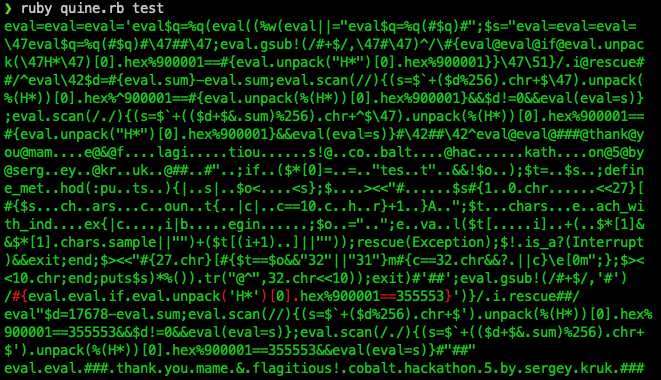
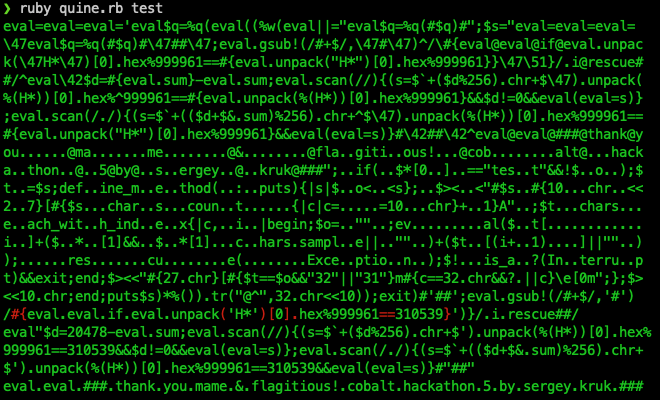
Improve ASCII graphics

diff --git a/2022-11-04-hackathon-5/quine.rb b/2022-11-04-hackathon-5/quine.rb
@@ -1,20 +1,21 @@
 eval=eval=eval='eval$q=%q(eval((%w(eval||="eval$q=%q(#$q)#";$s="eval=eval=eval=
 \47eval$q=%q(#$q)#\47##\47;eval.gsub!(/#+$/,\47#\47)^/\#{eval@eval@if@eval.unpac
-k(\47H*\47)[0].hex%900001==#{eval.unpack("H*")[0].hex%900001}}\47\51}/.i@rescue#
+k(\47H*\47)[0].hex%999961==#{eval.unpack("H*")[0].hex%999961}}\47\51}/.i@rescue#
 #/^eval\42$d=#{eval.sum}-eval.sum;eval.scan(//){(s=$`+($d%256).chr+$\47).unpack(
-%(H*))[0].hex%^900001==#{eval.unpack(%(H*))[0].hex%900001}&&$d!=0&&eval(eval=s)}
-;eval.scan(/./){(s=$`+(($d+$&.sum)%256).chr+^$\47).unpack(%(H*))[0].hex%900001==
-#{eval.unpack("H*")[0].hex%900001}&&eval(eval=s)}#\42##\42^eval@eval@###@thank@y
-ou@mam    e@&@f    lagi     tiou      s!@  co  balt    @hac      kath    on@5@by
-@serg  ey  @kr  uk  @##  #"  ;if  ($*[0]=  =  "tes  t"  &&!$o  );$t=  $s  ;defin
-e_met  hod(:pu  ts  ){|  s|  $o<    <s};$    ><<"#      $s#{1  0.chr      <<27}[
-#{$s.  ch  ars  .c  oun  t{  |c|  c==10.c  h  r}+1  }A  ";$t.  chars  .e  ach_wi
-th_ind    ex{|c    ,i|b     egin      ;$o  ="  ";e  va  l($t[  ...i]  +(  $*[1]&
-&$*[1].chars.sample||"")+($t[(i+1)..]||""));rescue(Exception);$!.is_a?(Interrupt
-)&&exit;end;$><<"#{27.chr}[#{$t==$o&&"32"||"31"}m#{c==32.chr&&?.||c}\e[0m";};$><
-<10.chr;end;puts$s)*%()).tr("@^",32.chr<<10));exit)#'##';eval.gsub!(/#+$/,'#')
-/#{eval eval if eval.unpack('H*')[0].hex%900001==355553}')}/.i rescue##/
-eval"$d=17678-eval.sum;eval.scan(//){(s=$`+($d%256).chr+$').unpack(%(H*))[0].hex%
-900001==355553&&$d!=0&&eval(eval=s)};eval.scan(/./){(s=$`+(($d+$&.sum)%256).chr+
-$').unpack(%(H*))[0].hex%900001==355553&&eval(eval=s)}#"##"
+%(H*))[0].hex%^999961==#{eval.unpack(%(H*))[0].hex%999961}&&$d!=0&&eval(eval=s)}
+;eval.scan(/./){(s=$`+(($d+$&.sum)%256).chr+^$\47).unpack(%(H*))[0].hex%999961==
+#{eval.unpack("H*")[0].hex%999961}&&eval(eval=s)}#\42##\42^eval@eval@###@thank@y
+ou      @ma       me        @&        @fla  giti  ous!   @cob        alt@   hack
+a  thon  @  5@by@  s  ergey  @  kruk@###";  if(  $*[0  ]  =="tes  t"&&!$  o  );$
+t  =$s;def  ine_m  e  thod(  :  puts){|s|$  o<  <s};  $><  <"#$s  #{10.  chr  <<
+2  7}[#{$s  .char  s  .coun  t      {|c|c=     =10.  chr}+  1}A"  ;$t.  chars  .
+e  ach_wit  h_ind  e  x{|c,  i  |begin;$o=  ""  ;ev         al($  t[..         .
+i  ]+($  *  [1]&&  $  *[1].  c  hars.sampl  e||  ""  )+($t  [(i+  1)..  ]||""  )
+);      res       cu        e(        Exce  ptio  n  );$!.  is_a  ?(In  terru  p
+t)&&exit;end;$><<"#{27.chr}[#{$t==$o&&"32"||"31"}m#{c==32.chr&&?.||c}\e[0m";};$>
+<<10.chr;end;puts$s)*%()).tr("@^",32.chr<<10));exit)#'##';eval.gsub!(/#+$/,'#')
+/#{eval eval if eval.unpack('H*')[0].hex%999961==310539}')}/.i rescue##/
+eval"$d=20478-eval.sum;eval.scan(//){(s=$`+($d%256).chr+$').unpack(%(H*))[0].hex%
+999961==310539&&$d!=0&&eval(eval=s)};eval.scan(/./){(s=$`+(($d+$&.sum)%256).chr+
+$').unpack(%(H*))[0].hex%999961==310539&&eval(eval=s)}#"##"
 eval eval ### thank you mame & flagitious! cobalt hackathon 5 by sergey kruk ###

diff --git a/2022-11-04-hackathon-5/generator.rb b/2022-11-04-hackathon-5/generator.rb
@@ -1,11 +1,11 @@
 eval=<<'RUBY'.chomp
 eval$q=%q(eval((%w(eval||="eval$q=%q(#$q)#";$s="eval=eval=eval=
 \47eval$q=%q(#$q)#\47##\47;eval.gsub!(/#+$/,\47#\47)^/\#{eval@eval@if@eval.unpac
-k(\47H*\47)[0].hex%900001==#{eval.unpack("H*")[0].hex%900001}}\47\51}/.i@rescue#
+k(\47H*\47)[0].hex%999961==#{eval.unpack("H*")[0].hex%999961}}\47\51}/.i@rescue#
 #/^eval\42$d=#{eval.sum}-eval.sum;eval.scan(//){(s=$`+($d%256).chr+$\47).unpack(
-%(H*))[0].hex%^900001==#{eval.unpack(%(H*))[0].hex%900001}&&$d!=0&&eval(eval=s)}
-;eval.scan(/./){(s=$`+(($d+$&.sum)%256).chr+^$\47).unpack(%(H*))[0].hex%900001==
-#{eval.unpack("H*")[0].hex%900001}&&eval(eval=s)}#\42##\42^eval@eval@###@thank@y
+%(H*))[0].hex%^999961==#{eval.unpack(%(H*))[0].hex%999961}&&$d!=0&&eval(eval=s)}
+;eval.scan(/./){(s=$`+(($d+$&.sum)%256).chr+^$\47).unpack(%(H*))[0].hex%999961==
+#{eval.unpack("H*")[0].hex%999961}&&eval(eval=s)}#\42##\42^eval@eval@###@thank@y
 ou@mame@&@flagitious!@cobalt@hackathon@5@by@sergey@kruk@###";
 if($*[0]=="test"&&!$o);
   $t=$s;define_method(:puts){|s|$o<<s};
@@ -23,11 +23,13 @@ RUBY
 lines = eval.split("\n")
 
 template = <<'TEXT'.chomp
-######    #####    ####     ####      ###  ##  ####    ####      ####    #######
-#####  ##  ###  ##  ###  ##  ###  #######  #  ####  ##  #####  #####  ##  ######
-#####  #######  ##  ###  ##  ###    #####    #####      #####  #####      ######
-#####  ##  ###  ##  ###  ##  ###  #######  #  ####  ##  #####  #####  ##  ######
-######    #####    ####     ####      ###  ##  ###  ##  #####  #####  ##  ######
+##      ###       ##        ##        ####  ####  ####   ####        ####   ####
+#  ####  #  #####  #  #####  #  ##########  ###  ####  #  ######  ######  #  ###
+#  #######  #####  #  #####  #  ##########  ##  ####  ###  #####  #####  ###  ##
+#  #######  #####  #  #####  #      ######     ####  #####  ####  ####  #####  #
+#  #######  #####  #  #####  #  ##########  ##  ###         ####  ####         #
+#  ####  #  #####  #  #####  #  ##########  ###  ##  #####  ####  ####  #####  #
+##      ###       ##        ##        ####  ####  #  #####  ####  ####  #####  #
 TEXT
 
 quine = lines[..6]
